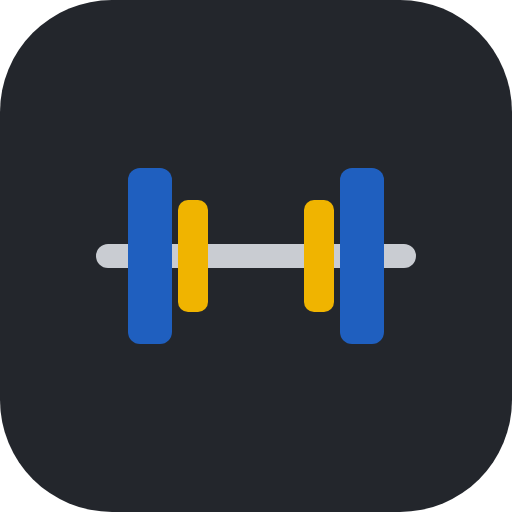
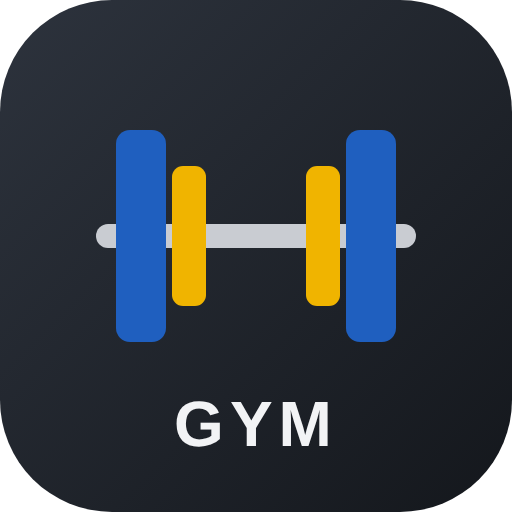
Інший дохід у статистиці, нова іконка (maskable) і назва GYM Work
Claude-Session: https://claude.ai/code/session_01JyNNeefNtGzgRoT3ePYbuZ

Changed region(s): [[0.1875, 0.25, 0.8125, 0.6875], [0.3438, 0.7812, 0.6562, 0.875]]

diff --git a/app/app.js b/app/app.js
@@ -23,6 +23,7 @@
   const KIND = { personal: "Персональне", split: "Спліт", group: "Група" };
   const PAY = { paid: "Оплачено", debt: "Борг", package: "Абонемент" };
   const EXP = { rent: ["Оренда залу", "🏟"], gear: ["Інвентар", "🏋"], transport: ["Транспорт", "🚕"], education: ["Навчання", "📚"], ads: ["Реклама", "📣"], food: ["Харчування", "🥗"], other: ["Інше", "🧾"] };
+  const INC = { consult: ["Консультації", "💬"], sale: ["Продаж", "🛒"], other: ["Інший дохід", "💰"] };
   const REPEAT = [[0, "не повторювати"], [4, "4 тижні"], [8, "8 тижнів"], [12, "12 тижнів"], [26, "півроку"]];
   const MEAS = [["weight", "Вага", "кг"], ["waist", "Талія", "см"], ["hips", "Стегна", "см"], ["chest", "Груди", "см"], ["fat", "Жир", "%"]];
   const parseProg = (x) => { try { const a = JSON.parse(x || "[]"); return Array.isArray(a) ? a : []; } catch { return []; } };
@@ -639,23 +640,25 @@
     const [from, to] = statsRange();
     const [j, ej] = await Promise.all([must("range", { from, to }), must("expenses_range", { from, to })]);
     const box = $("#sbox"); if (!box) return;
-    const exps = ej.expenses || [];
-    st.expenses = exps;
+    const allEx = ej.expenses || [];
+    st.expenses = allEx;
+    const exps = allEx.filter((e) => e.kind !== "income"), incs = allEx.filter((e) => e.kind === "income");
     const all = j.sessions, ok = all.filter((s) => s.status !== "cancelled");
-    const income = ok.reduce((a, s) => a + sessTotal(s), 0);
+    const sessIncome = ok.reduce((a, s) => a + sessTotal(s), 0);
+    const other = incs.reduce((a, e) => a + Number(e.amount), 0), income = sessIncome + other;
     const parts = ok.flatMap((s) => s.participants.map((p) => ({ ...p, s })));
     const clientsN = new Set(parts.map((p) => p.client_id)).size;
     const debt = parts.filter((p) => p.pay === "debt" && p.s.day <= today()).reduce((a, p) => a + Number(p.price), 0);
     const fromPkg = parts.filter((p) => p.pay === "package").reduce((a, p) => a + Number(p.price), 0);
     const cancelled = all.length - ok.length, noShow = all.filter((s) => s.status === "no_show").length;
     const moves = all.reduce((a, s) => a + (s.moves || []).length, 0);
-    const avg = ok.length ? income / ok.length : 0;
+    const avg = ok.length ? sessIncome / ok.length : 0;
     // по днях / місяцях
     let buckets = [];
     if (st.statsPeriod === "year") {
-      for (let m = 0; m < 12; m++) { const key = `${from.slice(0, 4)}-${pad(m + 1)}`; buckets.push({ l: MONN[m].slice(0, 3), v: ok.filter((s) => s.day.startsWith(key)).reduce((a, s) => a + sessTotal(s), 0) }); }
+      for (let m = 0; m < 12; m++) { const key = `${from.slice(0, 4)}-${pad(m + 1)}`; buckets.push({ l: MONN[m].slice(0, 3), v: ok.filter((s) => s.day.startsWith(key)).reduce((a, s) => a + sessTotal(s), 0) + incs.filter((e) => e.day.startsWith(key)).reduce((a, e) => a + Number(e.amount), 0) }); }
     } else {
-      for (let d = from; d <= to; d = addDays(d, 1)) buckets.push({ l: st.statsPeriod === "week" ? WD[D(d).getDay()] : String(D(d).getDate()), v: ok.filter((s) => s.day === d).reduce((a, s) => a + sessTotal(s), 0) });
+      for (let d = from; d <= to; d = addDays(d, 1)) buckets.push({ l: st.statsPeriod === "week" ? WD[D(d).getDay()] : String(D(d).getDate()), v: ok.filter((s) => s.day === d).reduce((a, s) => a + sessTotal(s), 0) + incs.filter((e) => e.day === d).reduce((a, e) => a + Number(e.amount), 0) });
     }
     const max = Math.max(1, ...buckets.map((b) => b.v));
     const byKind = ["personal", "split", "group"].map((k) => ({ k, v: ok.filter((s) => s.kind === k).reduce((a, s) => a + sessTotal(s), 0), n: ok.filter((s) => s.kind === k).length }));
@@ -678,8 +681,11 @@
       ${exps.length ? `<div class="legend">${byCat.map(([k, v]) => `<div><i style="background:var(--plate-red)"></i><span>${(EXP[k] || EXP.other)[1]} ${(EXP[k] || EXP.other)[0]}</span><b>${num(v)} грн</b></div>`).join("")}</div>
         <ul class="hist" style="margin-top:8px">${exps.slice(0, 30).map((e) => `<li><button class="mrow" data-act="editExpense" data-id="${e.id}"><span>${dShort(e.day)} · ${(EXP[e.cat] || EXP.other)[1]} ${esc(e.note || (EXP[e.cat] || EXP.other)[0])}</span><span class="p">−${num(e.amount)}</span></button></li>`).join("")}</ul>`
         : '<div class="none">Оренда залу, інвентар, дорога, курси — щоб бачити чистий прибуток.</div>'}</div>`;
+    const incHtml = `<div class="chart"><h3 class="row-h"><span>Інший дохід</span><button class="chip-btn sm" data-act="newIncome">+ Дохід</button></h3>
+      ${incs.length ? `<ul class="hist" style="margin-top:8px">${incs.slice(0, 30).map((e) => `<li><button class="mrow" data-act="editExpense" data-id="${e.id}"><span>${dShort(e.day)} · ${(INC[e.cat] || INC.other)[1]} ${esc(e.note || (INC[e.cat] || INC.other)[0])}</span><span class="p">+${num(e.amount)}</span></button></li>`).join("")}</ul>`
+        : '<div class="none">Продаж, консультації, будь-які надходження поза тренуваннями.</div>'}</div>`;
     box.innerHTML = `
-      <div class="total"><div><div class="sum">${num(income)}<span>грн</span></div></div><div class="meta">дохід<br><b>${ok.length}</b> трен. · <b>${clientsN}</b> клієнт.</div></div>
+      <div class="total"><div><div class="sum">${num(income)}<span>грн</span></div></div><div class="meta">дохід${other ? `<br>з них інший: <b>${num(other)}</b>` : ""}<br><b>${ok.length}</b> трен. · <b>${clientsN}</b> клієнт.</div></div>
       <div class="stats-grid two">
         <div class="stat"><b style="color:var(--plate-red)">${spent ? "−" + num(spent) : "0"}</b><span>витрати, грн</span></div>
         <div class="stat"><b style="${net < 0 ? "color:var(--plate-red)" : "color:var(--plate-green, #1e7d4f)"}">${num(net)}</b><span>чистий прибуток, грн</span></div>
@@ -698,23 +704,25 @@
         <div class="bars-x">${buckets.map((b, i) => `<span>${buckets.length > 14 && i % 5 && i !== buckets.length - 1 ? "" : b.l}</span>`).join("")}</div>
       </div>
       <div class="chart"><h3>За типом тренувань</h3>
-        <div class="split-bar">${byKind.filter((x) => x.v).map((x) => `<span style="width:${(x.v / Math.max(1, income)) * 100}%;background:${colors[x.k]}"></span>`).join("")}</div>
+        <div class="split-bar">${byKind.filter((x) => x.v).map((x) => `<span style="width:${(x.v / Math.max(1, sessIncome)) * 100}%;background:${colors[x.k]}"></span>`).join("")}</div>
         <div class="legend">${byKind.map((x) => `<div><i style="background:${colors[x.k]}"></i><span>${KIND[x.k]} · ${x.n}</span><b>${num(x.v)} грн</b></div>`).join("")}</div>
       </div>
       <div class="chart"><h3>Топ клієнтів</h3>${top.length ? `<ol class="top-list">${top.map((t) => `<li><span>${esc(t.name)} · ${t.n} трен.</span><b>${num(t.v)}</b></li>`).join("")}</ol>` : '<div style="color:var(--muted)">Немає даних за період</div>'}
         ${busyHours.length ? `<div style="margin-top:10px;font-size:14px;color:var(--muted)">Найзавантаженіший час: <b style="color:var(--ink)">${busyHours.join(", ")}</b></div>` : ""}
       </div>
-      ${expHtml}`;
+      ${expHtml}
+      ${incHtml}`;
   }
 
-  function expenseSheet(e) {
-    const x = e || { day: today(), amount: "", cat: "rent", note: "" };
-    openSheet(`<h2>${e ? "Витрата" : "Нова витрата"}<button class="icon-btn" data-act="close" aria-label="Закрити">${ICON.close}</button></h2>
+  function expenseSheet(e, kind) {
+    const inc = e ? e.kind === "income" : kind === "income", CATS = inc ? INC : EXP;
+    const x = e || { day: today(), amount: "", cat: inc ? "other" : "rent", note: "" };
+    openSheet(`<h2>${inc ? (e ? "Інший дохід" : "Новий дохід") : e ? "Витрата" : "Нова витрата"}<button class="icon-btn" data-act="close" aria-label="Закрити">${ICON.close}</button></h2>
       <div class="row2"><label class="field"><span>Сума, грн</span><input id="ex-amount" type="number" inputmode="decimal" value="${x.amount}" placeholder="0"></label>
         <label class="field"><span>Дата</span><input id="ex-day" type="date" value="${x.day}"></label></div>
-      <div class="cats" role="group" aria-label="Категорія">${Object.entries(EXP).map(([k, [l, ic]]) => `<button data-act="expCat" data-cat="${k}" aria-pressed="${x.cat === k}">${ic} ${l}</button>`).join("")}</div>
-      <label class="field"><span>Коментар</span><input id="ex-note" value="${esc(x.note || "")}" placeholder="Напр. оренда за листопад"></label>
-      <div class="foot"><button class="btn blue" data-act="saveExpense" data-id="${e ? e.id : ""}">Зберегти</button>${e ? `<button class="btn red" data-act="deleteExpense" data-id="${e.id}">Видалити</button>` : ""}</div>`, (bg) => { bg.dataset.cat = x.cat; if (!e) $("#ex-amount", bg).focus(); });
+      <div class="cats" role="group" aria-label="Категорія">${Object.entries(CATS).map(([k, [l, ic]]) => `<button data-act="expCat" data-cat="${k}" aria-pressed="${x.cat === k}">${ic} ${l}</button>`).join("")}</div>
+      <label class="field"><span>Коментар</span><input id="ex-note" value="${esc(x.note || "")}" placeholder="${inc ? "Напр. продаж резинок" : "Напр. оренда за листопад"}"></label>
+      <div class="foot"><button class="btn blue" data-act="saveExpense" data-id="${e ? e.id : ""}" data-kind="${inc ? "income" : "expense"}">Зберегти</button>${e ? `<button class="btn red" data-act="deleteExpense" data-id="${e.id}">Видалити</button>` : ""}</div>`, (bg) => { bg.dataset.cat = x.cat; if (!e) $("#ex-amount", bg).focus(); });
   }
 
   // ───── Ще / налаштування ─────
@@ -927,14 +935,15 @@
       closeSheet(); toast("Замір збережено"); render();
     },
     deleteMeasure(d) { askConfirm("Видалити цей замір?", "Видалити", async () => { await must("measure_delete", { id: +d.id }); closeSheet(); toast("Видалено"); render(); }); },
-    newExpense() { expenseSheet(null); },
+    newExpense() { expenseSheet(null, "expense"); },
+    newIncome() { expenseSheet(null, "income"); },
     editExpense(d) { const e = (st.expenses || []).find((x) => x.id === +d.id); if (e) expenseSheet(e); },
     expCat(d, el) { const bg = $("#sheet"); bg.dataset.cat = d.cat; bg.querySelectorAll("[data-act=expCat]").forEach((b) => b.setAttribute("aria-pressed", b === el)); },
     async saveExpense(d) {
-      await must("expense_save", { expense: { id: d.id ? +d.id : undefined, amount: $("#ex-amount").value.replace(",", "."), day: $("#ex-day").value, cat: $("#sheet").dataset.cat, note: $("#ex-note").value } });
-      closeSheet(); toast("Витрату збережено"); render();
+      await must("expense_save", { expense: { id: d.id ? +d.id : undefined, amount: $("#ex-amount").value.replace(",", "."), day: $("#ex-day").value, cat: $("#sheet").dataset.cat, kind: d.kind, note: $("#ex-note").value } });
+      closeSheet(); toast(d.kind === "income" ? "Дохід збережено" : "Витрату збережено"); render();
     },
-    deleteExpense(d) { askConfirm("Видалити витрату?", "Видалити", async () => { await must("expense_delete", { id: +d.id }); closeSheet(); toast("Видалено"); render(); }); },
+    deleteExpense(d) { askConfirm("Видалити запис?", "Видалити", async () => { await must("expense_delete", { id: +d.id }); closeSheet(); toast("Видалено"); render(); }); },
     goalSheet() {
       openSheet(`<h2>Ціль на місяць<button class="icon-btn" data-act="close" aria-label="Закрити">${ICON.close}</button></h2>
         <label class="field"><span>Скільки хочете заробляти за місяць, грн</span><input id="g-goal" type="number" inputmode="numeric" value="${st.settings.month_goal || ""}" placeholder="40000"></label>

diff --git a/app/demo.js b/app/demo.js
@@ -206,7 +206,7 @@
       return { sent: false, total, text: `Привіт, ${c.name}! Нагадую про оплату тренувань:\n${ds.map((x) => `• ${x.s.day}, ${x.s.start_time} — ${x.p.price} грн`).join("\n")}\nРазом: ${total} грн. Дякую! 💪` };
     },
     expenses_range: (b) => ({ expenses: db.expenses.filter((e) => e.day >= b.from && e.day <= b.to).sort((a, c) => c.day.localeCompare(a.day)) }),
-    expense_save(b) { const e = b.expense || {}; if (!(Number(e.amount) > 0)) fail("Вкажіть суму"); const vals = { day: e.day, amount: Number(e.amount), cat: e.cat || "other", note: e.note || null }; let row; if (e.id) { row = db.expenses.find((x) => x.id === e.id); Object.assign(row, vals); } else { row = { id: nid(), ...vals }; db.expenses.push(row); } return { expense: row }; },
+    expense_save(b) { const e = b.expense || {}; if (!(Number(e.amount) > 0)) fail("Вкажіть суму"); const vals = { day: e.day, amount: Number(e.amount), kind: e.kind === "income" ? "income" : "expense", cat: e.cat || "other", note: e.note || null }; let row; if (e.id) { row = db.expenses.find((x) => x.id === e.id); Object.assign(row, vals); } else { row = { id: nid(), ...vals }; db.expenses.push(row); } return { expense: row }; },
     expense_delete(b) { db.expenses = db.expenses.filter((e) => e.id !== b.id); return {}; },
     measure_save(b) { const m = b.measure || {}; const n = (x) => (x === "" || x == null ? null : Number(x)); const vals = { client_id: m.client_id, day: m.day, weight: n(m.weight), waist: n(m.waist), hips: n(m.hips), chest: n(m.chest), fat: n(m.fat), note: m.note || null }; if (["weight", "waist", "hips", "chest", "fat"].every((k) => vals[k] == null) && !vals.note) fail("Заповніть хоча б один замір"); let row; if (m.id) { row = db.measures.find((x) => x.id === m.id); Object.assign(row, vals); } else { row = { id: nid(), ...vals }; db.measures.push(row); } return { measure: row }; },
     measure_delete(b) { db.measures = db.measures.filter((m) => m.id !== b.id); return {}; },

diff --git a/functions/trainer/src/core.js b/functions/trainer/src/core.js
@@ -12,6 +12,7 @@ const isPriv = (k) => KV_PRIVATE.some((x) => String(k).startsWith(x));
 const ADMIN_SETUP_HASH = "FiHtdyLO5HXp1XEg2o-wZfo4aAqOgvmOOhp0HmybZ7E";
 const BOT_CFG = "2"; // версія налаштувань бота (кнопки «Буду / Не зможу»)
 const EXP_CATS = ["rent", "gear", "transport", "education", "ads", "food", "other"];
+const INC_CATS = ["consult", "sale", "other"];
 export class ApiError extends Error {}
 export const LANDING_DEFAULT = {
   hero_title: "Журнал персонального тренера",
@@ -805,7 +806,8 @@ export function createCore(st, opts = {}) {
       const amount = round2(Number(e.amount));
       if (!(amount > 0)) throw new ApiError("Вкажіть суму");
       if (!isDay(e.day)) throw new ApiError("Вкажіть дату");
-      const vals = { day: e.day, amount, cat: EXP_CATS.includes(e.cat) ? e.cat : "other", note: e.note ? String(e.note).slice(0, 300) : null };
+      const kind = e.kind === "income" ? "income" : "expense";
+      const vals = { day: e.day, amount, kind, cat: (kind === "income" ? INC_CATS : EXP_CATS).includes(e.cat) ? e.cat : "other", note: e.note ? String(e.note).slice(0, 300) : null };
       return { expense: e.id ? await D.update("expenses", e.id, vals) : await D.create("expenses", vals, newId()) };
     },
     async expense_delete(b) { await D.remove("expenses", b.id); return {}; },

diff --git a/app/index.html b/app/index.html
@@ -7,11 +7,11 @@
 (function () { var h = location.hostname; if (!/^app\./.test(h) && !/appwrite\.network$/.test(h) && h !== "localhost" && !/^[\d.]+$/.test(h)) location.replace("/landing/"); })();
 </script>
 <meta name="viewport" content="width=device-width, initial-scale=1, maximum-scale=1, user-scalable=no, viewport-fit=cover">
-<title>Журнал тренувань</title>
+<title>GYM Work</title>
 <meta name="theme-color" content="#f6f7f5">
 <meta name="apple-mobile-web-app-capable" content="yes">
 <meta name="apple-mobile-web-app-status-bar-style" content="default">
-<meta name="apple-mobile-web-app-title" content="Тренування">
+<meta name="apple-mobile-web-app-title" content="GYM Work">
 <link rel="manifest" href="manifest.webmanifest">
 <link rel="icon" href="icon.svg" type="image/svg+xml">
 <link rel="apple-touch-icon" href="icon-192.png">

diff --git a/app/sw.js b/app/sw.js
@@ -1,6 +1,6 @@
 // Кеш оболонки додатку для швидкого запуску; дані завжди з мережі
-const C = "trainer-v24";
-const FILES = ["./", "index.html", "style.css", "app.js", "demo.js", "config.js", "icon.svg", "manifest.webmanifest"];
+const C = "trainer-v25";
+const FILES = ["./", "index.html", "style.css", "app.js", "demo.js", "config.js", "icon.svg", "icon-192.png", "icon-512.png", "manifest.webmanifest"];
 self.addEventListener("install", (e) => { e.waitUntil(caches.open(C).then((c) => c.addAll(FILES))); self.skipWaiting(); });
 self.addEventListener("activate", (e) => { e.waitUntil(caches.keys().then((ks) => Promise.all(ks.filter((k) => k !== C).map((k) => caches.delete(k))))); self.clients.claim(); });
 self.addEventListener("fetch", (e) => {

diff --git a/functions/trainer/src/store-appwrite.js b/functions/trainer/src/store-appwrite.js
@@ -37,7 +37,7 @@ export const SCHEMA = {
     indexes: [["tid"]],
   },
   expenses: {
-    attrs: [["tid", "string", 32], ["day", "string", 10], ["amount", "float"], ["cat", "string", 16], ["note", "string", 300]],
+    attrs: [["tid", "string", 32], ["day", "string", 10], ["amount", "float"], ["cat", "string", 16], ["note", "string", 300], ["kind", "string", 8]],
     indexes: [["tid"], ["day"]],
   },
   measures: {
